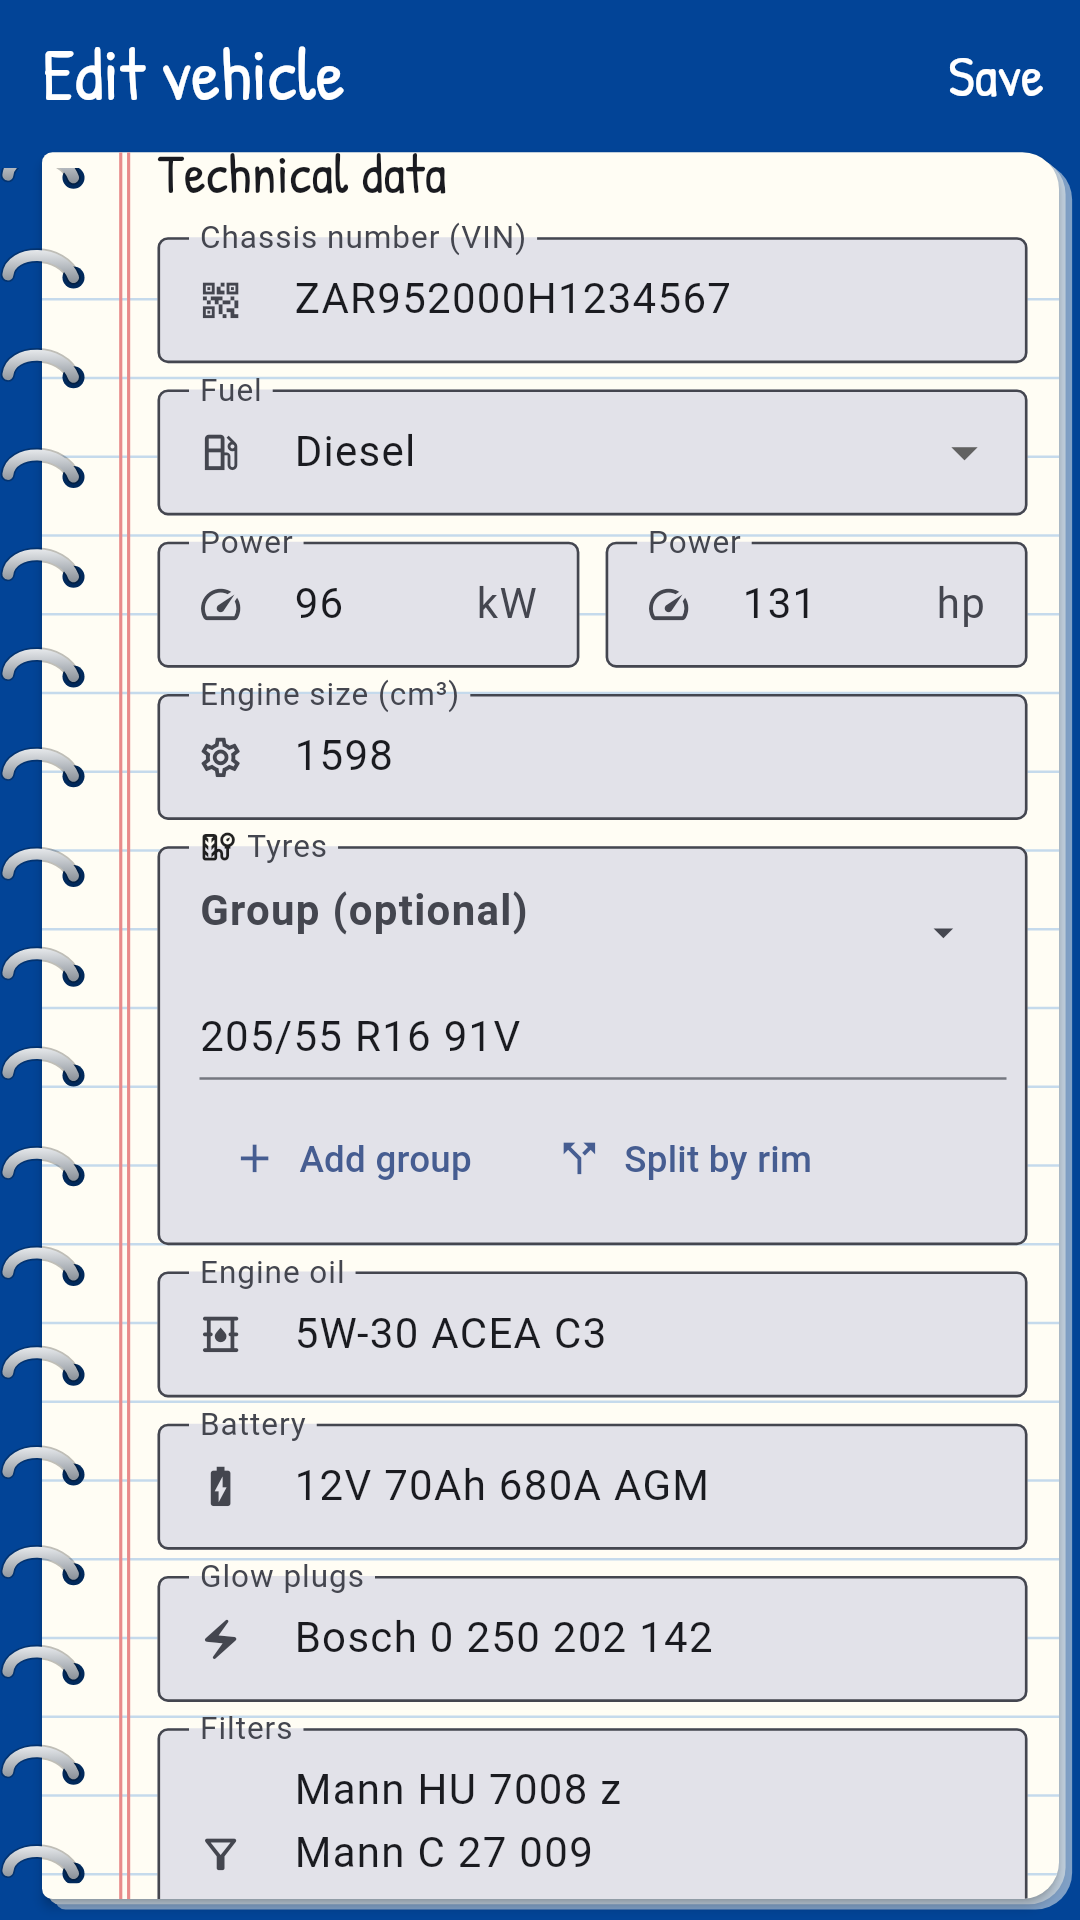
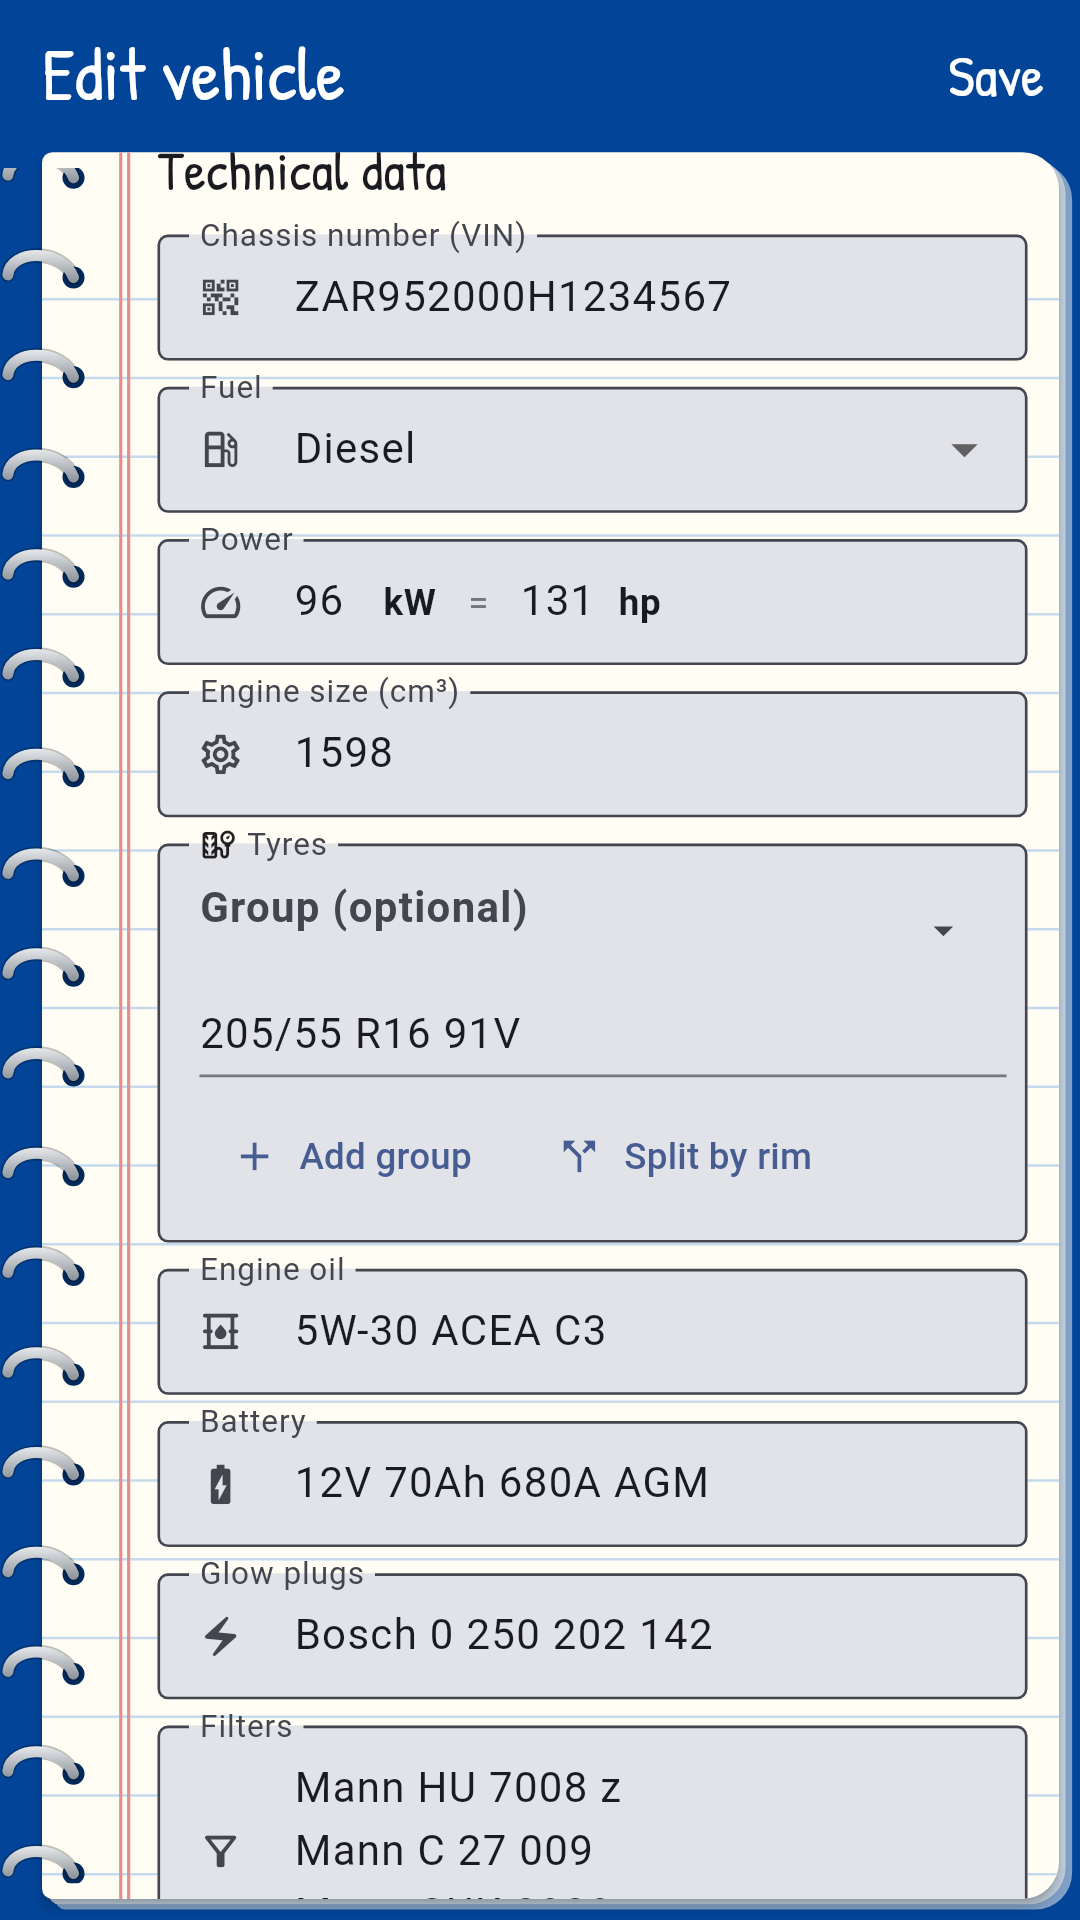
Potenza in una sola casella con kW e CV affiancati
Claude-Session: https://claude.ai/code/session_01E5Mc5Y1Fn11ySByqYRH4WT

diff --git a/lib/screens/vehicle_edit_screen.dart b/lib/screens/vehicle_edit_screen.dart
@@ -395,17 +395,7 @@ class _VehicleEditScreenState extends State<VehicleEditScreen> {
                 onChanged: (f) => setState(() => v.fuel = f ?? ''),
               ),
             ),
-            Row(children: [
-              Expanded(
-                child: _techField(_power, tr('tech.powerName'), Icons.speed,
-                    number: true, suffix: 'kW', onChanged: (t) => _powerCv.text = kwToCvText(t)),
-              ),
-              const SizedBox(width: 10),
-              Expanded(
-                child: _techField(_powerCv, tr('tech.powerName'), Icons.speed,
-                    number: true, suffix: tr('unit.cv'), onChanged: (t) => _power.text = cvToKwText(t)),
-              ),
-            ]),
+            _powerField(),
             _techField(_cc, tr('tech.engine'), Icons.settings_outlined, number: true),
             _tyreEditor(scheme),
             _techField(_oil, tr('tech.oil'), Icons.oil_barrel_outlined, hint: tr('tech.oilHint')),
@@ -577,6 +567,47 @@ class _VehicleEditScreenState extends State<VehicleEditScreen> {
               label: Text(tr('tyre.splitRim')),
             ),
           ]),
+        ]),
+      ),
+    );
+  }
+
+  Widget _powerField() {
+    Widget part(TextEditingController c, String unit, ValueChanged<String> onChanged) => Row(
+          mainAxisSize: MainAxisSize.min,
+          children: [
+            ConstrainedBox(
+              constraints: const BoxConstraints(minWidth: 28, maxWidth: 90),
+              child: IntrinsicWidth(
+                child: TextField(
+                  controller: c,
+                  onChanged: onChanged,
+                  keyboardType: const TextInputType.numberWithOptions(decimal: true),
+                  decoration: const InputDecoration.collapsed(hintText: '—'),
+                ),
+              ),
+            ),
+            const SizedBox(width: 6),
+            Text(unit, style: const TextStyle(fontWeight: FontWeight.w600)),
+          ],
+        );
+    return Padding(
+      padding: const EdgeInsets.only(bottom: 10),
+      child: InputDecorator(
+        decoration: InputDecoration(
+          labelText: tr('tech.powerName'),
+          filled: true,
+          isDense: true,
+          border: const OutlineInputBorder(),
+          prefixIcon: const Icon(Icons.speed),
+        ),
+        child: Row(children: [
+          part(_power, 'kW', (t) => _powerCv.text = kwToCvText(t)),
+          Padding(
+            padding: const EdgeInsets.symmetric(horizontal: 12),
+            child: Text('=', style: TextStyle(color: Theme.of(context).colorScheme.outline)),
+          ),
+          part(_powerCv, tr('unit.cv'), (t) => _power.text = cvToKwText(t)),
         ]),
       ),
     );

diff --git a/BACKLOG.md b/BACKLOG.md
@@ -4,6 +4,7 @@ Lavori rimandati, da fare prima di andare in produzione o in una versione succes
 
 ## Prossima versione (2.1.7)
 - [x] Unità di misura dentro il campo, accanto al numero (kW, CV), con etichetta corta «Potenza».
+- [x] Potenza in una sola casella con le due unità affiancate («96 kW = 131 CV»): scrivendo in una si aggiorna l'altra.
 - [x] Segnalazioni allo sviluppatore (FormSubmit) inviate con il nuovo indirizzo del sito.
 - [ ] Durata della Pro con codice sviluppatore: oggi scade a ogni nuova versione. Da decidere: 30 giorni oppure finché non viene revocata.
 
